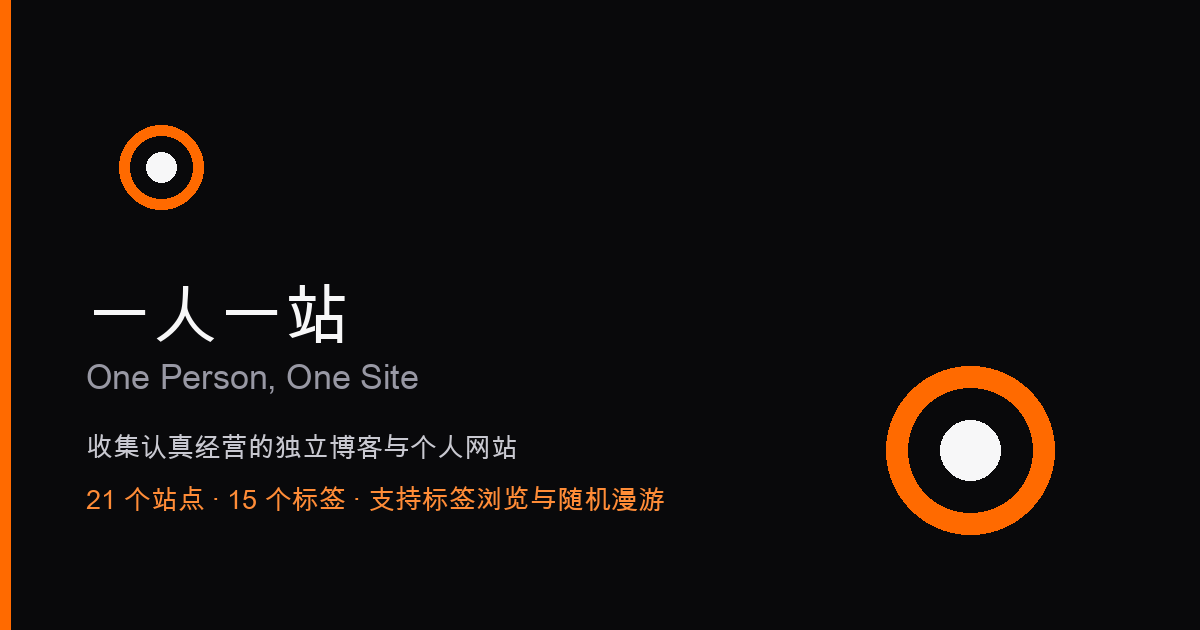
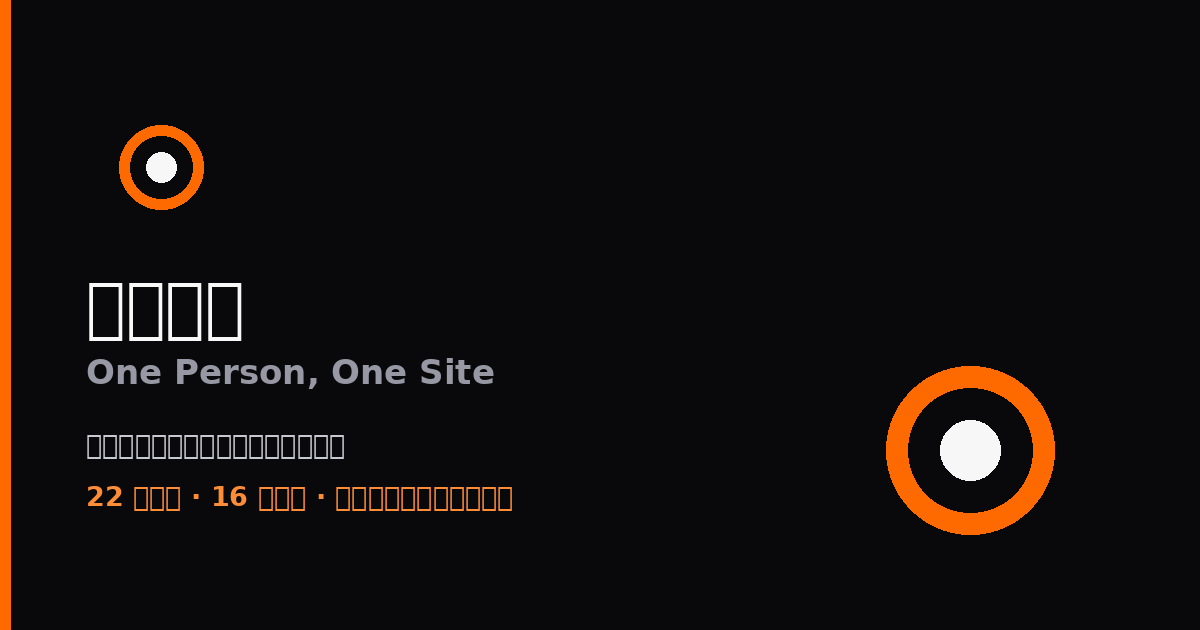
feat: 收录新站点「虫子樱桃」（issue #10）

Changed region(s): [[0.0617, 0.6937, 0.555, 0.8143], [0.0617, 0.573, 0.4317, 0.6333], [0.0617, 0.4524, 0.3083, 0.5429]]

diff --git a/README_EN.md b/README_EN.md
@@ -27,10 +27,10 @@
 This is a **content directory** — not a showcase, not a software project. It does one thing: gather personal sites that real people have been running for a long time, so that others can find them, read them, and subscribe to them.
 
 <!-- STATS:START -->
-- **21** independent sites from **4** regions, written in 5 languages.
-- **5** of them publish an RSS / Atom feed — import the whole list at once with [feeds.opml](./site/feeds.opml).
-- Content types: blog (13), digital-garden (3), notes (4), portfolio (6).
-- Common topics: developer (14), indie-hacker (7), maker (5), designer (3), security (2), writer (2), open-source (1), personal-website (1).
+- **22** independent sites from **4** regions, written in 5 languages.
+- **6** of them publish an RSS / Atom feed — import the whole list at once with [feeds.opml](./site/feeds.opml).
+- Content types: blog (14), digital-garden (3), notes (4), portfolio (6).
+- Common topics: developer (15), indie-hacker (7), maker (5), designer (3), security (2), writer (2), ai (2), open-source (1).
 <!-- STATS:END -->
 
 Behind every entry is a specific person: a manufacturing engineer documenting his AI experiments, an interior designer writing about building products while running a studio, a university student growing his studies into a digital garden, a senior engineer sorting out hard-won lessons on RAG and backend systems. They write about different things. What they share is that they **never handed their voice over to an algorithm**.
@@ -120,6 +120,7 @@ Being listed is not an endorsement. Opinions on those sites belong to their auth
 | [只是一根毛](https://justmao.com/) | JustMao | 资深软件工程师的独立博客：记录 AI Agent、RAG、后端与信息安全的实践笔记与技术取舍。 | zh-TW | developer, blog, security |
 | [权小白](https://quanxb.art/) | 权小白 | 05 后的个人站，只写亲自试过的 AI 工具与实践，记录持续更新的思考与判断。 | zh-CN | developer, writer, ai |
 | [皮普的数字花园](https://pipuwong.com) | Pipu | 设计师与摄影师，记录摄影、设计、代码，以及 NAS 自托管与建站实践。 | zh-CN, en | blog, designer, photographer, digital-garden |
+| [虫子樱桃](https://czyt.tech) | czyt | 一个关注编程、ai和linux的博客 | zh-CN | blog, developer, agent, ai |
 | [逐风Lab](https://zhufeng-lab.pages.dev/) | 逐风 | 一个研0学生的公开重建记录：用 AI 做研究和工具实测，把网站当第二张简历。 | zh-CN | developer, research, blog |
 | [陈大黄 - 作品与内容](https://chendahuang.com) | 陈大黄 | 陈大黄的个人作品与内容陈列站。收录项目、文章和精选帖子。 | zh-CN | blog, developer, portfolio |
 <!-- SITES_TABLE:END -->

diff --git a/README.md b/README.md
@@ -27,10 +27,10 @@
 这里是一份**内容目录**，不是作品展示，也不是技术项目。它只做一件事：把分散在互联网各处、由真人长期经营的个人站点聚到一起，让人能找到它们、读到它们、订阅它们。
 
 <!-- STATS:START -->
-- 目前收录 **21** 个站点，来自 **4** 个地区，使用 5 种语言写作。
-- 其中 **5** 个提供 RSS / Atom 订阅源，可通过 [feeds.opml](./site/feeds.opml) 一次性导入阅读器。
-- 内容形态：`blog` (13)、`digital-garden` (3)、`notes` (4)、`portfolio` (6)。
-- 常见主题：`developer` (14)、`indie-hacker` (7)、`maker` (5)、`designer` (3)、`security` (2)、`writer` (2)、`open-source` (1)、`personal-website` (1)。
+- 目前收录 **22** 个站点，来自 **4** 个地区，使用 5 种语言写作。
+- 其中 **6** 个提供 RSS / Atom 订阅源，可通过 [feeds.opml](./site/feeds.opml) 一次性导入阅读器。
+- 内容形态：`blog` (14)、`digital-garden` (3)、`notes` (4)、`portfolio` (6)。
+- 常见主题：`developer` (15)、`indie-hacker` (7)、`maker` (5)、`designer` (3)、`security` (2)、`writer` (2)、`ai` (2)、`open-source` (1)。
 <!-- STATS:END -->
 
 每一个条目背后都是一个具体的人：一位制造业工程师在记录他的 AI 实验，一位室内设计师在写他边做设计边做产品的经历，一位大三学生在把自己的学习和项目铺成一座数字花园，一位资深工程师在整理 RAG 与后端的技术取舍。他们写的东西不一样，共同点是**没有把表达权交给平台算法**。
@@ -120,6 +120,7 @@
 | [只是一根毛](https://justmao.com/) | JustMao | 资深软件工程师的独立博客：记录 AI Agent、RAG、后端与信息安全的实践笔记与技术取舍。 | zh-TW | developer, blog, security |
 | [权小白](https://quanxb.art/) | 权小白 | 05 后的个人站，只写亲自试过的 AI 工具与实践，记录持续更新的思考与判断。 | zh-CN | developer, writer, ai |
 | [皮普的数字花园](https://pipuwong.com) | Pipu | 设计师与摄影师，记录摄影、设计、代码，以及 NAS 自托管与建站实践。 | zh-CN, en | blog, designer, photographer, digital-garden |
+| [虫子樱桃](https://czyt.tech) | czyt | 一个关注编程、ai和linux的博客 | zh-CN | blog, developer, agent, ai |
 | [逐风Lab](https://zhufeng-lab.pages.dev/) | 逐风 | 一个研0学生的公开重建记录：用 AI 做研究和工具实测，把网站当第二张简历。 | zh-CN | developer, research, blog |
 | [陈大黄 - 作品与内容](https://chendahuang.com) | 陈大黄 | 陈大黄的个人作品与内容陈列站。收录项目、文章和精选帖子。 | zh-CN | blog, developer, portfolio |
 <!-- SITES_TABLE:END -->

diff --git a/DIRECTORY.md b/DIRECTORY.md
@@ -2,7 +2,7 @@
 
 > 此文件由 `data/sites.json` 自动生成，请不要直接编辑。
 
-当前共收录 **21** 个站点。
+当前共收录 **22** 个站点。
 
 | 网站 | 站长 / 创作者 | 简介 | 语言 | 标签 |
 |---|---|---|---|---|
@@ -25,9 +25,10 @@
 | [只是一根毛](https://justmao.com/) | JustMao | 资深软件工程师的独立博客：记录 AI Agent、RAG、后端与信息安全的实践笔记与技术取舍。 | zh-TW | developer, blog, security |
 | [权小白](https://quanxb.art/) | 权小白 | 05 后的个人站，只写亲自试过的 AI 工具与实践，记录持续更新的思考与判断。 | zh-CN | developer, writer, ai |
 | [皮普的数字花园](https://pipuwong.com) | Pipu | 设计师与摄影师，记录摄影、设计、代码，以及 NAS 自托管与建站实践。 | zh-CN, en | blog, designer, photographer, digital-garden |
+| [虫子樱桃](https://czyt.tech) | czyt | 一个关注编程、ai和linux的博客 | zh-CN | blog, developer, agent, ai |
 | [逐风Lab](https://zhufeng-lab.pages.dev/) | 逐风 | 一个研0学生的公开重建记录：用 AI 做研究和工具实测，把网站当第二张简历。 | zh-CN | developer, research, blog |
 | [陈大黄 - 作品与内容](https://chendahuang.com) | 陈大黄 | 陈大黄的个人作品与内容陈列站。收录项目、文章和精选帖子。 | zh-CN | blog, developer, portfolio |
 
 ## 标签统计
 
-`developer` (14) · `blog` (13) · `indie-hacker` (7) · `portfolio` (6) · `maker` (5) · `notes` (4) · `designer` (3) · `digital-garden` (3) · `security` (2) · `writer` (2) · `ai` (1) · `open-source` (1) · `personal-website` (1) · `photographer` (1) · `research` (1)
+`developer` (15) · `blog` (14) · `indie-hacker` (7) · `portfolio` (6) · `maker` (5) · `notes` (4) · `designer` (3) · `digital-garden` (3) · `ai` (2) · `security` (2) · `writer` (2) · `agent` (1) · `open-source` (1) · `personal-website` (1) · `photographer` (1) · `research` (1)
